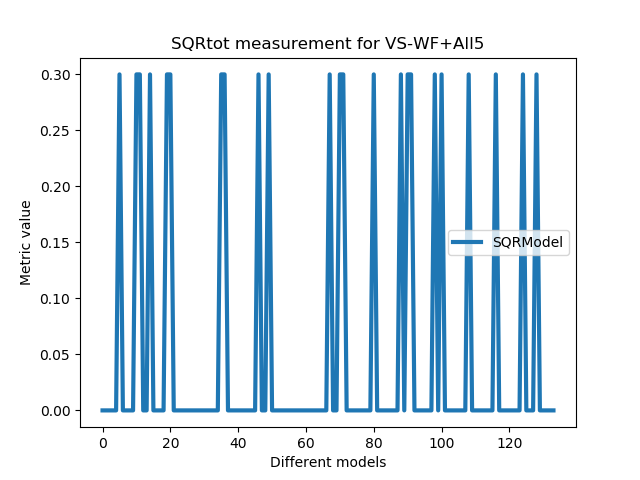
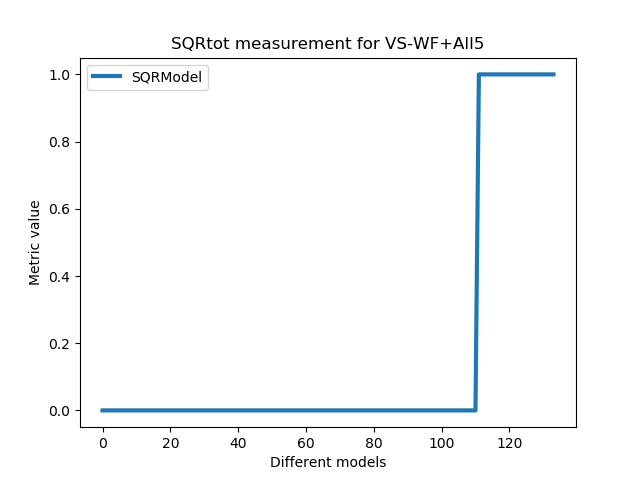
REALMET : implement further plots for SQR

diff --git a/Metrics/MetricFigures/plotFigure.py b/Metrics/MetricFigures/plotFigure.py
@@ -17,36 +17,44 @@ def main():
 			, 'VS-WF+All7'
 			, 'VS+i'
 			]
-	metrics = ['SQRtot']
-	
-	for metricName in metrics :
-		for sourceName in sources:
+	numSources = len(sources)
+
+	metrics = ['SQRmax']
+
+	allSources = [[] *  numSources for i in range(numSources)]
+	allSourcesX = [[] *  numSources for i in range(numSources)]
 		
+	for metricName in metrics :
+		srcInd = 0
+		for sourceName in sources:
 			csvLocation = '../ca.mcgill.ecse.dslreasoner.realistic.metrics/outputs/calculatedMetrics/'
 			csvFileName = sourceName + '/' + metricName
+
+			#Make paths if inexistant
+			dirPathName = 'outputs/' + sourceName
+			pathName = dirPathName + '/' + metricName + ".png"
+			createFiles(dirPathName, pathName)
+
+			#Manipulations
 			with open(csvLocation + csvFileName + '.csv') as f:
 				reader = csv.reader(f, delimiter=',')
 				ind = 0
 				for row in reader:
 					rowName = row[0] + row[1]
-					for i in row[2:] :
-						#print(i)
-						float(i)
 					rowVals = [float(i) for i in row[2:]]
+					allSources[srcInd] = [i for i in rowVals]	
+					#Operations
+					rowVals.sort()
+					maxVal = max(rowVals)
+					rowVals = [i/maxVal for i in rowVals]					
+					#End Operations
 					if ind == 0 :
 						plt.plot(rowVals, label = rowName, lineWidth = 3)
 					else :
 						plt.plot(rowVals, label = rowName, alpha = 0.5)
-					ind += 1
+					ind += 1			
 
-			#Make paths if inexistant
-			dirPathName = 'outputs/' + sourceName
-			pathName = 'outputs/' + csvFileName + ".png"
-			if not path.exists(dirPathName) :
-				mkdir(dirPathName)
-			if not path.exists(pathName) :
-				open(pathName, 'a').close()
-		
+			#INDIVIDUAL FIGURES
 			#plt.title("Node Activity measurement w/ and w/o neighbourhood")
 			plt.title(metricName + " measurement for " + sourceName)
 			plt.ylabel("Metric value")
@@ -54,9 +62,64 @@ def main():
 		#	plt.ylim(bottom=0, top=5)
 			plt.legend()
 			plt.savefig(pathName)
-			plt.show()
+			#plt.show()
 			plt.clf()
-		#ADD COMPILATION OF SOURCES FOR A GIVEN METRIC HERE!!!!
+
+			srcInd += 1
+
+		#COMPILATION FIGURE
+		#Make paths if inexistant
+		dirPathName = 'outputs/_Cumulative'
+		pathName = dirPathName + '/' + metricName + ".png"
+		createFiles(dirPathName, pathName)
+
+		maxModels = 0
+		maxMetVal = 0
+
+		for i in range(numSources) :
+			allSources[i].sort()
+			allSources[i] = [j for j in allSources[i]]
+
+			###for normalizing number of models
+			numModels = len(allSources[i])
+			if numModels > maxModels :
+				maxModels = numModels
+
+			###for normalizing metric values
+			locMaxMetVal = max(allSources[i])
+			if locMaxMetVal > maxMetVal :
+				maxMetVal = locMaxMetVal
+		
+		for i in range(numSources) :
+			numModels = len(allSources[i])
+
+			###normalize number of models to (max number of models, 1)
+			#allSourcesX[i] = np.arange(0, maxModels, float(maxModels) / numModels) 
+			allSourcesX[i] = np.arange(0, 1, 1 / numModels) 
+
+			###normalize metric values to (max Metric Value, 1)
+			currentMax = max(allSources[i])
+			#allSources[i] = [j * maxMetVal / currentMax for j in allSources[i]]
+			#allSources[i] = [j / currentMax for j in allSources[i]]
+
+
+			plt.plot(allSources[i], allSourcesX[i], label = sources[i], lineWidth = 3)
+		
+		plt.title(metricName + " measurement for all sources")
+		plt.ylabel("Metric value")
+		plt.xlabel("Different models")
+	#	plt.ylim(bottom=0, top=5)
+		plt.legend()
+		plt.savefig(pathName)
+		plt.show()
+		plt.clf()
+
+
+def createFiles(dirPathName, pathName) :
+	if not path.exists(dirPathName) :
+		mkdir(dirPathName)
+	if not path.exists(pathName) :
+		open(pathName, 'a').close()
 
 	
 if __name__== "__main__":
